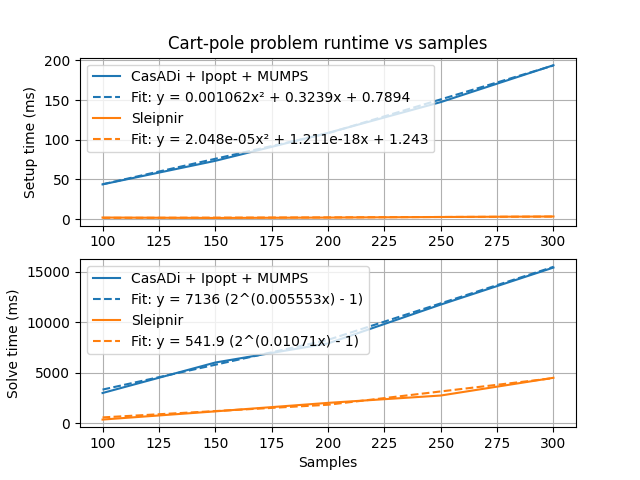
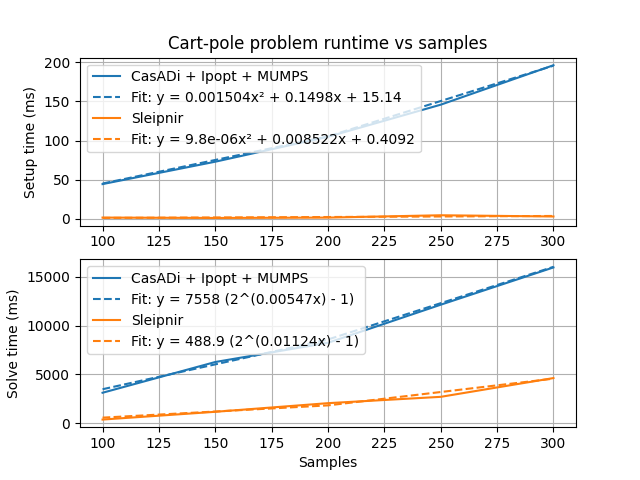
Run benchmarks with GCC 14 (#538)

diff --git a/README.md b/README.md
@@ -82,7 +82,13 @@ Sleipnir's internals are intended to be readable by those who aren't domain expe
   </td>
 </tr></table>
 
-Generated by [tools/generate-scalability-results.sh](https://github.com/SleipnirGroup/Sleipnir/tree/main/tools/generate-scalability-results.sh) from [benchmarks/scalability](https://github.com/SleipnirGroup/Sleipnir/tree/main/benchmarks/scalability) source on a AMD Ryzen 7 7840U with 64 GB RAM. The following thirdparty software was used in the benchmarks:
+Generated by [tools/generate-scalability-results.sh](https://github.com/SleipnirGroup/Sleipnir/tree/main/tools/generate-scalability-results.sh) from [benchmarks/scalability](https://github.com/SleipnirGroup/Sleipnir/tree/main/benchmarks/scalability) source.
+
+* CPU: AMD Ryzen 7 7840U
+* RAM: 64 GB, 5600 MHz DDR5
+* Compiler version: g++ (GCC) 14.1.1 20240507
+
+The following thirdparty software was used in the benchmarks:
 
 * CasADi 3.6.5 (autodiff and NLP solver frontend)
 * Ipopt 3.14.16 (NLP solver backend)
